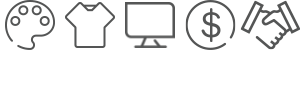
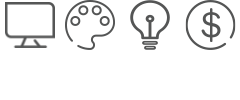
change industry

Changed region(s): [[0.0, 0.0, 1.0, 0.51]]

diff --git a/industry/default.html b/industry/default.html
@@ -94,10 +94,10 @@
 					this.isPhone = false
 				}
 				var hash = this.GetQueryString("b")
-				if(hash !== 'comics'){
-					var index = hash === 'habiliment'? 1 : hash === 'network' ? 2 : hash === 'financial' ? 3 : hash === 'trading' ? 4 : 0
+				// if(hash !== 'comics'){
+					var index = hash === 'habiliment'? 0 : hash === 'network' ? 2 : hash === 'financial' ? 3 : hash === 'trading' ? 4 : 1
 					this.v_industry_default = this.v_industry[index]
-				}
+				// }
 			},
 			methods: {
 				GetQueryString(name) {

diff --git a/public/style/base.css b/public/style/base.css
@@ -281,11 +281,11 @@ li{
 	background-repeat: no-repeat;
 	margin-top: 55px;
 }
-.industry-nav .btn .icon.comics{
+.industry-nav .btn .icon.habiliment{
 	background-position: 0 0;
 	background-position-y: 0;
 }
-.industry-nav .btn .icon.habiliment{
+.industry-nav .btn .icon.comics{
 	background-position-x: -60px;
 }
 .industry-nav .btn .icon.network{
